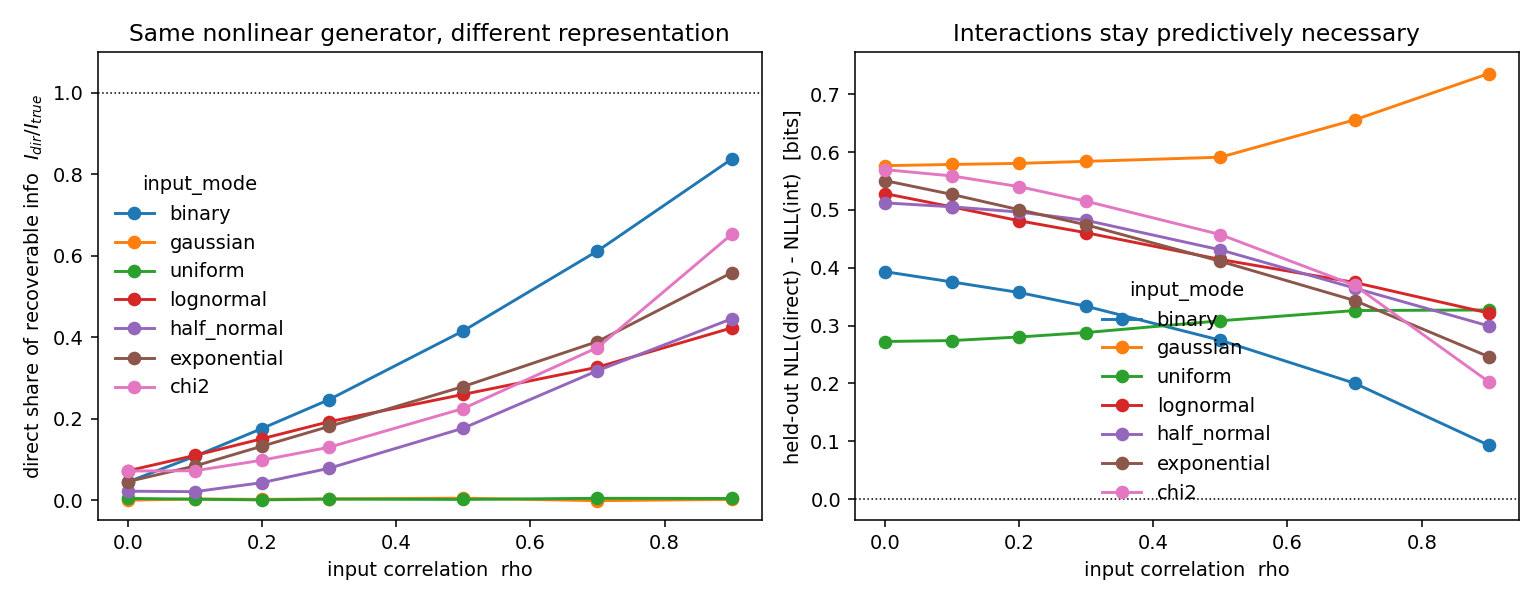
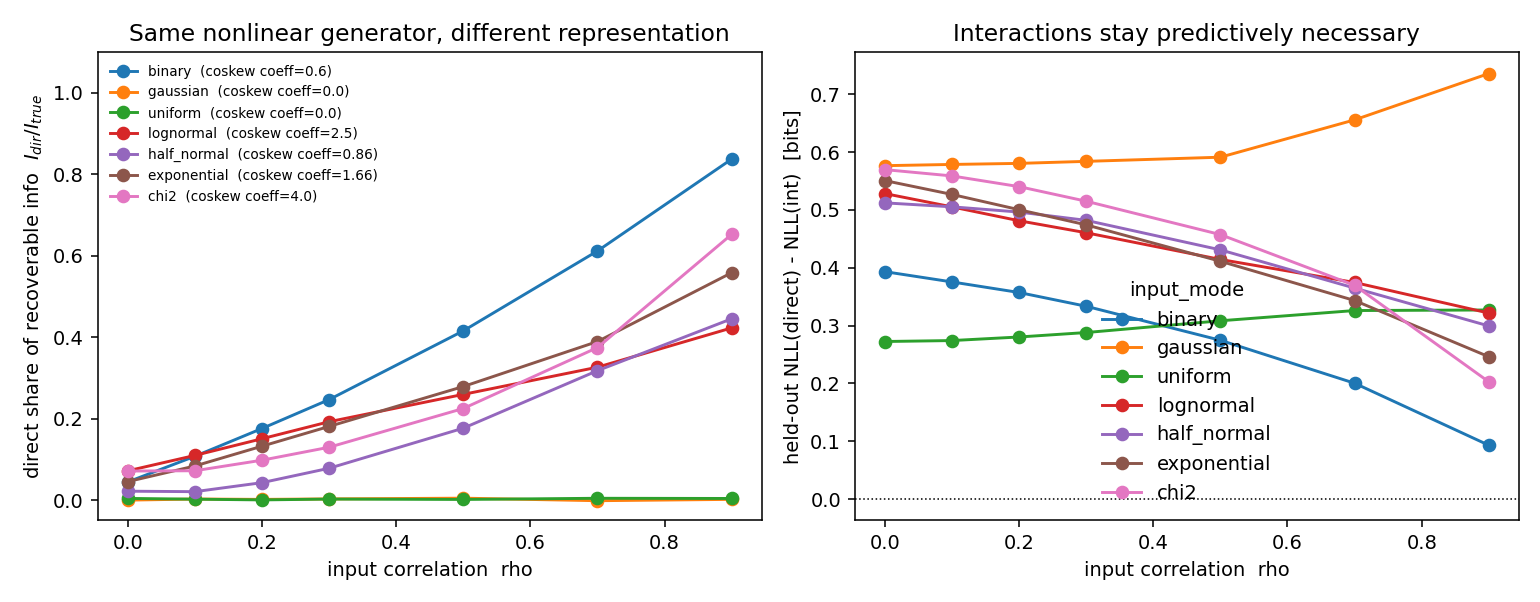
Add coskewness coefficients to figure legend, remove dotted reference line
The coskewness coefficient E[delta_i^2 delta_j] / Cov(x_i, x_j) is the
distribution-specific factor that controls interaction masking. Added to
the left panel legend for all 7 distributions: 0 (gaussian, uniform),
0.6 (binary), 0.86 (half_normal), 1.66 (exponential), 2.50 (lognormal),
4.00 (chi2).

Changed region(s): [[0.0623, 0.0897, 0.2494, 0.5083], [0.0623, 0.5382, 0.187, 0.6578]]

diff --git a/masking_sim.py b/masking_sim.py
@@ -281,19 +281,35 @@ def run_mode_comparison(cfg: Config):
 
 
 # --------------------------------- plots ---------------------------------- #
+
+# Analytical coskewness coefficient: E[delta_i^2 delta_j] / Cov(x_i, x_j).
+# This is the distribution-specific factor that controls how much of a pairwise
+# interaction leaks into the linear model.  Independent of rho.
+COSKEW_COEFF = {
+    "gaussian":    0.0,     # symmetric => zero by parity
+    "uniform":     0.0,     # symmetric => zero by parity
+    "half_normal": 0.86,    # empirical (no closed form)
+    "binary":      0.60,    # analytical: (1-2p) with p=0.2
+    "lognormal":   2.50,    # empirical
+    "exponential": 1.66,    # empirical
+    "chi2":        4.00,    # analytical: kurtosis_excess = 2*sqrt(2)*2 ... simplifies to 4
+}
+
+
 def plot_modes(by_mode, path="masking_by_representation.png"):
     import matplotlib; matplotlib.use("Agg")
     import matplotlib.pyplot as plt
     fig, ax = plt.subplots(1, 2, figsize=(11, 4.3))
     for m, rows in by_mode.items():
         rho = [r["rho"] for r in rows]
-        ax[0].plot(rho, [r["phi_direct"] for r in rows], "o-", label=m)
+        coeff = COSKEW_COEFF.get(m, "?")
+        label0 = f"{m}  (coskew coeff={coeff})"
+        ax[0].plot(rho, [r["phi_direct"] for r in rows], "o-", label=label0)
         ax[1].plot(rho, [r["nll_gap"] for r in rows], "o-", label=m)
-    ax[0].axhline(1.0, color="k", lw=0.8, ls=":")
     ax[0].set_xlabel("input correlation  rho")
     ax[0].set_ylabel(r"direct share of recoverable info  $I_{dir}/I_{true}$")
     ax[0].set_title("Same nonlinear generator, different representation")
-    ax[0].set_ylim(-0.05, 1.1); ax[0].legend(frameon=False, title="input_mode")
+    ax[0].set_ylim(-0.05, 1.1); ax[0].legend(frameon=False, fontsize=7)
     ax[1].axhline(0.0, color="k", lw=0.8, ls=":")
     ax[1].set_xlabel("input correlation  rho")
     ax[1].set_ylabel("held-out NLL(direct) - NLL(int)  [bits]")